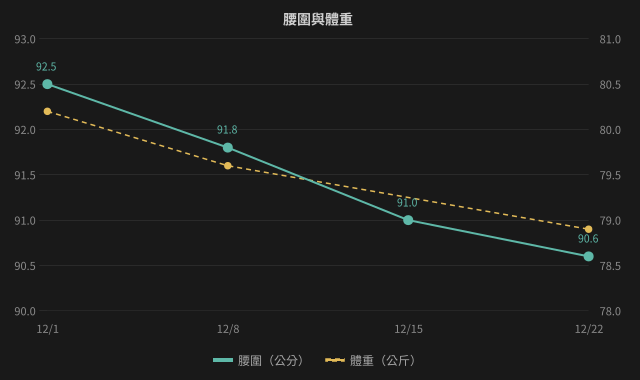
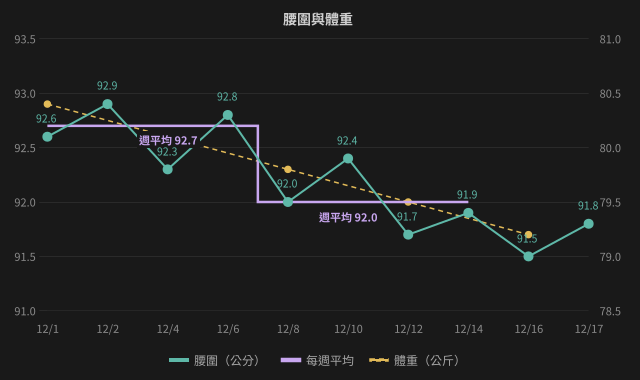
腰圍改成每天量、每週日算週平均並畫進折線圖；環形圖可自訂預留標籤
Claude-Session: https://claude.ai/code/session_01RBMTqFwhq4TTNthD4tWWz4

diff --git a/chef-diet-coach/scripts/body_url.py b/chef-diet-coach/scripts/body_url.py
@@ -1,11 +1,13 @@
 #!/usr/bin/env python3
-"""腰圍折線圖（可以加體重）：組出 QuickChart（Chart.js v4）圖片網址。
+"""腰圍折線圖（可以加體重、每週平均）：組出 QuickChart（Chart.js v4）圖片網址。
 
-腰圍是主線（左軸，點上標數字），體重有填就用虛線畫在右軸。縱軸上下限自動算。
+腰圍是主線（左軸，點上標數字）。體重有填就用虛線畫在右軸。
+第 4 欄填了週次的日子，會算出那一週的腰圍平均，用紫色線畫出來，數字標在該週離平均線最遠的那一天。
+週一到週日算一週，只有過完的那一週（週日之後）才填週次；進行中的週填 null，不畫平均。
 
 用法：
-  python3 body_url.py '[["12/1",92.5,80.2],["12/8",91.8,79.6],["12/15",91.0,null]]'
-  每一項是 [日期, 腰圍公分, 體重公斤（沒量就 null 或省略）]。
+  python3 body_url.py '[["12/1",92.5,80.2,1],["12/3",92.1,null,1],["12/8",91.8,79.6,null]]'
+  每一項是 [日期, 腰圍公分, 體重公斤（沒量就 null）, 週次（還沒過完就 null）]。
   加 --config 會印出 JS 設定（本機預覽用），不印網址。
 """
 import json
@@ -15,6 +17,7 @@ import urllib.parse
 
 WAIST = "#5EB8A8"
 WEIGHT = "#E3BB58"
+AVG = "#C9A7F0"
 GRID = "#2A2A2A"
 TICK = "#8C8C8C"
 LABEL = "#D0D0D0"
@@ -33,9 +36,23 @@ def build_config(rows):
     labels = [r[0] for r in rows]
     waist = [None if r[1] is None else round(float(r[1]), 1) for r in rows]
     weight = [None if len(r) < 3 or r[2] is None else round(float(r[2]), 1) for r in rows]
+    weeks = [r[3] if len(r) > 3 else None for r in rows]
     has_weight = any(v is not None for v in weight)
+    groups = {}
+    for i, (w, v) in enumerate(zip(weeks, waist)):
+        if w is not None and v is not None:
+            groups.setdefault(w, []).append(i)
+    avg_of = {w: round(sum(waist[i] for i in idx) / len(idx), 1) for w, idx in groups.items()}
+    avgs = [avg_of.get(w) if w is not None else None for w in weeks]
+    # 週平均的數字標在該週離平均最遠的那一天，避開那天腰圍點的數字
+    # （圖的最左、最右兩天盡量不用，數字會貼到邊）
+    n = len(rows)
+    label_idx = []
+    for w, idx in groups.items():
+        inner = [i for i in idx if 0 < i < n - 1] or idx
+        label_idx.append(max(inner, key=lambda i: abs(waist[i] - avg_of[w])))
 
-    wv = [v for v in waist if v is not None]
+    wv = [v for v in waist if v is not None] + [v for v in avgs if v is not None]
     wmin, wmax = bounds(wv, 0.5)
     datasets = [{
         "label": "腰圍（公分）",
@@ -53,6 +70,24 @@ def build_config(rows):
             "formatter": "__FMT__",
         },
     }]
+    if groups:
+        datasets.append({
+            "label": "每週平均",
+            "data": avgs,
+            "yAxisID": "y",
+            "borderColor": AVG,
+            "backgroundColor": AVG,
+            "borderWidth": 2.5,
+            "pointRadius": 0,
+            "stepped": "middle",
+            "spanGaps": False,
+            "datalabels": {
+                "display": "__AVGDISP__", "align": "bottom", "anchor": "start", "offset": 6, "clamp": True,
+                "color": AVG, "backgroundColor": "#191919", "padding": 2,
+                "font": {"family": FONT, "size": 11, "weight": 700},
+                "formatter": "__AVGFMT__",
+            },
+        })
     scales = {
         "x": {"grid": {"display": False}, "ticks": {"color": TICK, "font": {"family": FONT, "size": 11}}},
         "y": {
@@ -82,7 +117,7 @@ def build_config(rows):
             "ticks": {"color": TICK, "font": {"family": FONT, "size": 11}},
             "grid": {"display": False}, "border": {"display": False},
         }
-    return {
+    return label_idx, {
         "type": "line",
         "data": {"labels": labels, "datasets": datasets},
         "options": {
@@ -98,7 +133,7 @@ def build_config(rows):
                     "padding": {"bottom": 12},
                 },
                 "legend": {
-                    "display": has_weight,
+                    "display": has_weight or bool(groups),
                     "position": "bottom",
                     "labels": {"color": "#A6A6A6", "font": {"family": FONT, "size": 12},
                                "boxWidth": 18, "boxHeight": 2, "padding": 16},
@@ -109,9 +144,13 @@ def build_config(rows):
     }
 
 
-def to_js(cfg):
+def to_js(built):
+    label_idx, cfg = built
     s = json.dumps(cfg, ensure_ascii=False, separators=(",", ":"))
-    return s.replace('"__FMT__"', "(v)=>v==null?'':v.toFixed(1)")
+    s = s.replace('"__FMT__"', "(v)=>v==null?'':v.toFixed(1)")
+    idx = json.dumps(label_idx)
+    s = s.replace('"__AVGDISP__"', "(c)=>" + idx + ".includes(c.dataIndex)")
+    return s.replace('"__AVGFMT__"', "(v)=>v==null?'':'週平均 '+v.toFixed(1)")
 
 
 def build_url(rows):

diff --git a/chef-diet-coach/scripts/ring_url.py b/chef-diet-coach/scripts/ring_url.py
@@ -12,6 +12,7 @@ Notion 會自己去載圖，不用上傳檔案。
 
 鍵：breakfast 早餐、whey 乳清（或蛋白飲）、lunch 午餐、snack 點心、dinner 晚餐、
 drinks 飲料、reserve 預留、target 目標。沒吃的餐次可以省略。
+可以加 "reserve_label":"預留乳清" 改圖例上預留那一格的名字（預設「預留」）。
 """
 import json
 import sys
@@ -48,7 +49,7 @@ def build_config(kind, g):
         if v > 0:
             data.append(round(v, 1)); fill.append(color); stroke.append(color); width.append(0); names.append(name)
     if res > 0:
-        data.append(round(res, 1)); fill.append("rgba(0,0,0,0)"); stroke.append(RESERVE); width.append(1.5); names.append("預留")
+        data.append(round(res, 1)); fill.append("rgba(0,0,0,0)"); stroke.append(RESERVE); width.append(1.5); names.append(g.get("reserve_label") or "預留")
     if rem > 0:
         data.append(round(rem, 1)); fill.append(TRACK); stroke.append("#3C3C3C"); width.append(1)
         names.append("還能吃" if kind == "kcal" else "還差")

diff --git a/README.md b/README.md
@@ -35,7 +35,7 @@
 - 跟它說「我中午吃了一碗牛肉麵」或拍一張照片，它會估熱量、蛋白質，寫進 Notion，更新環形圖，然後建議下一餐：自己煮一道、外食一個，而且一定要好吃
 - 晚上跟它說手錶上的今日總消耗（沒有手錶就說「今天結束」，它幫你估），它會結算今天的熱量赤字，畫進折線圖
 - 結算完它會陪你覆盤：今天做得好，問你是什麼讓你做得好；沒達標，問你哪裡下次可以換個做法。你的回答會記進 Notion 的「飲食領悟」
-- 量了腰圍、體重就跟它說，它會畫折線圖，跟上次、跟第一次比
+- 每天早上量腰圍跟它說，它會畫折線圖；每週日算一次週平均，看的是週平均有沒有往下，不是單日的波動
 - 赤字用階梯慢慢加大：第一週每天少吃 100 大卡，每週多 100，到你的目標就維持
 
 ## 開始之前
@@ -89,7 +89,7 @@ chef-diet-coach/
 └── scripts/
     ├── ring_url.py             熱量、蛋白質環形圖
     ├── deficit_url.py          每日熱量赤字折線圖
-    └── body_url.py             腰圍（加體重）折線圖
+    └── body_url.py             腰圍折線圖（每週平均、可加體重）
 ```
 
 圖是用 [QuickChart](https://quickchart.io) 的網址畫的：腳本組出一串網址，放進 Notion 的圖片區塊，Notion 會自己去載圖，不用上傳檔案。圖是深色底，配手機深色模式最好看。

diff --git a/chef-diet-coach/references/notion-setup.md b/chef-diet-coach/references/notion-setup.md
@@ -142,12 +142,14 @@ CREATE TABLE (
 
 ```
 ## 身體紀錄
-（callout：最新腰圍、體重，跟上一次、跟第一次比）
+（callout：最新腰圍、體重；每週平均，跟上週、跟第一週比）
 （腰圍折線圖）
+（一行灰字：綠點是每天早上的腰圍，紫線是每週平均，週一到週日，每週日結算）
 （身體紀錄的表格檢視，依日期由新到舊）
 ```
 
 - 折線圖用 `scripts/body_url.py`。只有一筆資料時先不放圖，第二筆再放
+- 每週日把這週的日子在第 4 欄填上週次，圖上就會多一段紫色的週平均線
 
 ### 4. 飲食領悟
 
